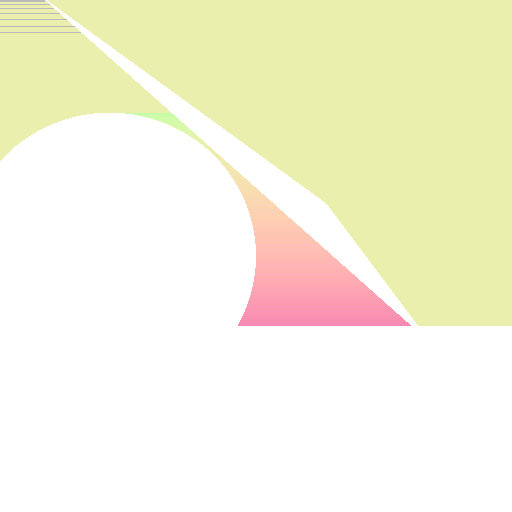
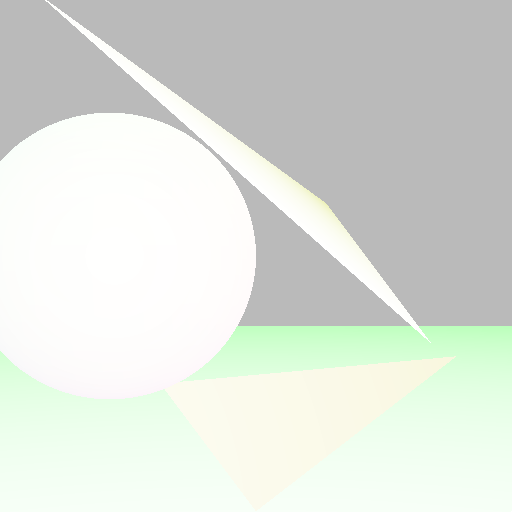
fixing depth in saved gbuffer

diff --git a/main.cpp b/main.cpp
@@ -1250,15 +1250,21 @@ void DoTestSSAO(const std::vector<Vec2>& points, const char* label)
     SSAOTestMakeGBuffer(gbuffer);
 
     ImageFloat gbufferToSave = gbuffer;
-    float depthMin = gbufferToSave.m_pixels[3];
-    float depthMax = gbufferToSave.m_pixels[3];
+    float depthMin = 0.0f;
+    float depthMax = 0.0f;
+    bool hasMinMax = false;
     for (size_t i = 0; i < gbufferToSave.m_width * gbufferToSave.m_height; ++i)
     {
         float* pixel = &gbufferToSave.m_pixels[i * 4];
-        if (pixel[3] < depthMin)
+        if (pixel[3] == FLT_MAX)
+            continue;
+
+        if (!hasMinMax || pixel[3] < depthMin)
             depthMin = pixel[3];
-        if (pixel[3] > depthMax)
+        if (!hasMinMax || pixel[3] > depthMax)
             depthMax = pixel[3];
+
+        hasMinMax = true;
     }
 
     for (size_t i = 0; i < gbufferToSave.m_width * gbufferToSave.m_height; ++i)
@@ -1267,7 +1273,7 @@ void DoTestSSAO(const std::vector<Vec2>& points, const char* label)
         pixel[0] = pixel[0] * 0.5f + 0.5f;
         pixel[1] = pixel[1] * 0.5f + 0.5f;
         pixel[2] = pixel[2] * 0.5f + 0.5f;
-        pixel[3] = (pixel[3] - depthMin) / (depthMax - depthMin);
+        pixel[3] = (pixel[3] == FLT_MAX) ? 1.0f : (pixel[3] - depthMin) / (depthMax - depthMin);
     }
 
     // TODO: do this as part of initialize! don't need to do it for every sample type!

diff --git a/SSAO.cpp b/SSAO.cpp
@@ -312,6 +312,9 @@ static void SamplePixelGBuffer(float* pixel, const Vec3& rayPos, const Vec3& ray
 {
     // TODO: set up a good scene for AO
     RayHitInfo initialHitInfo;
+    initialHitInfo.normal[0] = 0.0f;
+    initialHitInfo.normal[1] = 0.0f;
+    initialHitInfo.normal[2] = 0.0f;
     RayIntersectScene<false>(rayPos, rayDir, initialHitInfo, false);
     pixel[0] = initialHitInfo.normal[0];
     pixel[1] = initialHitInfo.normal[1];
